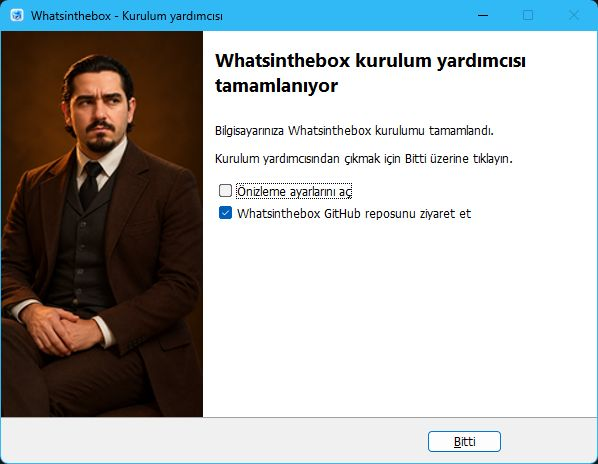
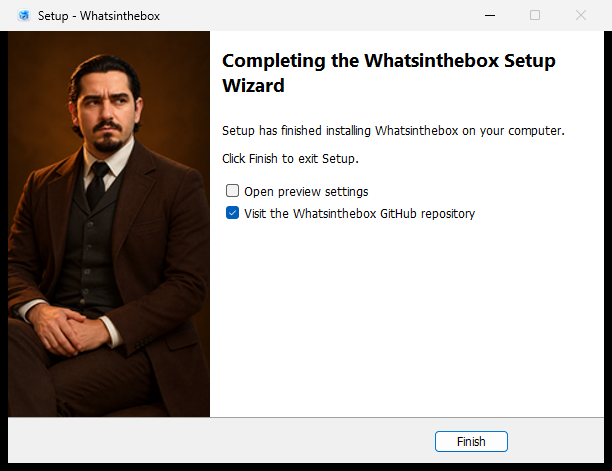
Publish version 1.0 verification, screenshots and download page

Changed region(s): [[0.0, 0.0, 1.0, 1.0], [0.1806, 0.5733, 0.2107, 0.6638], [0.1806, 0.4224, 0.2107, 0.4526]]

diff --git a/website/index.html b/website/index.html
@@ -2,6 +2,7 @@
 <html lang="en">
 <head>
  <meta charset="utf-8"><meta name="viewport" content="width=device-width,initial-scale=1">
+ <link rel="canonical" href="https://whatsinthebox-app.vercel.app/">
  <meta name="description" content="Whatsinthebox brings local file previews to Windows Explorer. Free, open source, and designed to stay out of your way.">
  <meta name="theme-color" content="#eef2f6"><meta property="og:title" content="Whatsinthebox — See inside. Stay in Explorer.">
  <meta property="og:description" content="Local previews for PDFs, artwork, images and fonts. Built for Windows.">
@@ -13,13 +14,13 @@
 <header class="navigation"><a class="brand" href="/" aria-label="Whatsinthebox home"><img src="assets/icon.png" width="40" height="40" alt="">Whatsinthebox<span class="brand-dot"></span></a><nav aria-label="Main"><a href="#formats" data-i="formats">Formats</a><a href="#release" data-i="releaseNav">Release status</a><a class="github" href="https://github.com/bakhtiyarjahangirzade/Whatsinthebox" data-i="source">Source code ↗</a><select id="language" aria-label="Language"><option value="en">EN</option><option value="ru">RU</option><option value="de">DE</option><option value="zh">中文</option><option value="tr">TR</option></select></nav></header>
 <main id="main">
  <section class="hero">
-  <div class="hero-copy"><div class="platform"><span class="windows-mark" aria-hidden="true"><i></i><i></i><i></i><i></i></span><span data-i="eyebrow">A small upgrade for Windows.</span></div><h1 data-i="title">See inside.<br>Stay in Explorer.</h1><p class="lede" data-i="description">PDFs, design files and images. A preview, right where your files live.</p><div class="actions"><a class="primary" id="download" href="https://github.com/bakhtiyarjahangirzade/Whatsinthebox" data-i="source">Source code ↗</a><a class="secondary" href="#release" data-i="releaseNav">Release status</a></div><p class="micro" data-i="free">Free. Open source. No account.</p><div class="shortcut"><kbd>Alt</kbd><span>+</span><kbd>P</kbd><span data-i="shortcut">Your preview. One shortcut.</span></div></div>
+  <div class="hero-copy"><div class="platform"><span class="windows-mark" aria-hidden="true"><i></i><i></i><i></i><i></i></span><span data-i="eyebrow">A small upgrade for Windows.</span></div><h1 data-i="title">See inside.<br>Stay in Explorer.</h1><p class="lede" data-i="description">PDFs, design files and images. A preview, right where your files live.</p><div class="actions"><a class="primary" id="download" href="https://github.com/bakhtiyarjahangirzade/Whatsinthebox/releases/download/v1.0.0/Whatsinthebox-1.0.0-Setup.exe" data-i="download">Download for Windows</a><a class="secondary" href="#release" data-i="releaseNav">Release status</a></div><p class="micro" data-i="free">Free. Open source. No account.</p><div class="shortcut"><kbd>Alt</kbd><span>+</span><kbd>P</kbd><span data-i="shortcut">Your preview. One shortcut.</span></div></div>
   <figure class="product"><div class="window-head"><span class="window-title"><span class="folder" aria-hidden="true"></span>Whatsinthebox</span><span class="window-controls" aria-hidden="true">− &nbsp; □ &nbsp; ×</span></div><div class="window-address"><span aria-hidden="true">← &nbsp; ↑</span><span>Files &nbsp; / &nbsp; Preview</span></div><div class="window-content"><div class="sample-files"><div class="sample-heading" data-i="sampleFiles">Example files</div><div class="file selected"><span class="file-icon pdf">PDF</span><span>Document.pdf<small>PDF document</small></span></div><div class="file"><span class="file-icon psd">PSD</span><span>Artwork.psd<small>Design file</small></span></div><div class="file"><span class="file-icon svg">SVG</span><span>Illustration.svg<small>Vector image</small></span></div><div class="file"><span class="file-icon font">Aa</span><span>Typeface.otf<small>Font file</small></span></div><div class="local-note"><span aria-hidden="true">◉</span><span data-i="local">On your computer.</span></div></div><div class="preview"><img src="assets/preview.png" alt="PDF preview control captured during a Windows integration test" width="650" height="760"></div></div><figcaption data-i="capture">Explorer placement illustrated. Preview image captured from a Windows integration test.</figcaption></figure>
  </section>
  <section class="benefits" aria-label="Features"><article><span class="feature-icon" aria-hidden="true">↗</span><h2 data-i="oneTitle">Open less. See more.</h2><p data-i="oneBody">Select a file. Press Alt+P. See its content without opening another app.</p></article><article><span class="feature-icon" aria-hidden="true">▧</span><h2 data-i="twoTitle">Looks like the original.</h2><p data-i="twoBody">Original proportions, transparent backgrounds and PDF page navigation.</p></article><article><span class="feature-icon" aria-hidden="true">⌁</span><h2 data-i="threeTitle">Your files stay yours.</h2><p data-i="threeBody">Files stay on your computer. No uploads, ads or subscriptions.</p></article></section>
  <section id="formats" class="formats"><div><p class="eyebrow" data-i="formatEyebrow">A closer look</p><h2 data-i="formatTitle">For the files<br>you work with.</h2><p data-i="formatNote">Support follows the file's actual contents. Saved previews are used where a full decoder is unavailable.</p></div><dl><div><dt>PDF</dt><dd data-i="pdfDescription">Real pages and page navigation. Filled form fields included.</dd></div><div><dt>PSD · PSB · CDR</dt><dd data-i="designDescription">Saved composites for Photoshop; embedded previews for compatible CorelDRAW files.</dd></div><div><dt>SVG · PNG · JPEG</dt><dd data-i="imageDescription">Vector artwork, images and transparent backgrounds, with original proportions.</dd></div><div><dt>TTF · OTF</dt><dd data-i="fontDescription">A font specimen, without installing the font.</dd></div></dl></section>
- <section id="release" class="release"><div><span class="status-label" data-i="status">1.0 release · under verification</span><h2 data-i="releaseTitle">A useful feature.<br>A careful release.</h2><p data-i="releaseBody">The next installer is being checked for upgrade, repair, removal and Explorer stability. A Windows shell issue remains under investigation. A 1.0 download will be published after those checks pass.</p><a href="https://github.com/bakhtiyarjahangirzade/Whatsinthebox/blob/main/docs/verification.md" data-i="security">Security & checks ↗</a></div><aside><span class="release-symbol" aria-hidden="true">✓</span><p data-i="releaseAside">No silent updates.<br>No accounts.<br>No file uploads.</p><span class="release-platform">Windows 10 / 11 · x64</span></aside></section>
- <section class="faq"><h2 data-i="faqTitle">Before you install.</h2><details><summary data-i="faq1">Does it upload my files?</summary><p data-i="faq1Answer">No. Preview rendering stays local. The update checker only requests public release metadata from GitHub.</p></details><details><summary data-i="faq2">Why might a PDF preview be blocked?</summary><p data-i="faq2Answer">Windows can block downloaded files before invoking a preview handler. A per-file permission action is available for PDFs you trust. Password-protected and damaged files may need separate handling.</p></details><details><summary data-i="faq3">Can I remove it cleanly?</summary><p data-i="faq3Answer">The installer includes an uninstaller and restores the preview registrations it replaced. The new release must pass clean-install, upgrade, repair and removal checks before 1.0.</p></details></section>
+ <section id="release" class="release"><div><span class="status-label" data-i="status">1.0.0 · available now</span><h2 data-i="releaseTitle">A useful feature.<br>A careful release.</h2><p data-i="releaseBody">The self-contained installer passed install, upgrade, repair, removal and native Windows preview checks in two isolated Windows environments. One download, five languages, no separate runtime installation.</p><a href="https://github.com/bakhtiyarjahangirzade/Whatsinthebox/blob/main/docs/verification.md" data-i="security">Security & checks ↗</a></div><aside><span class="release-symbol" aria-hidden="true">✓</span><p data-i="releaseAside">No silent updates.<br>No accounts.<br>No file uploads.</p><span class="release-platform">Windows 10 / 11 · x64</span></aside></section>
+ <section class="faq"><h2 data-i="faqTitle">Before you install.</h2><details><summary data-i="faq1">Does it upload my files?</summary><p data-i="faq1Answer">No. Preview rendering stays local. The update checker only requests public release metadata from GitHub.</p></details><details><summary data-i="faq2">Why might a PDF preview be blocked?</summary><p data-i="faq2Answer">Windows can block downloaded files before invoking a preview handler. A per-file permission action is available for PDFs you trust. Password-protected and damaged files may need separate handling.</p></details><details><summary data-i="faq3">Can I remove it cleanly?</summary><p data-i="faq3Answer">Yes. The uninstaller restores the preview registrations it replaced. Clean install, update, repair and removal passed the 1.0 verification.</p></details></section>
 </main>
 <footer><a class="brand" href="/">Whatsinthebox<span class="brand-dot"></span></a><span>© Bakhtiyar Jahangirzade</span><div><a href="https://github.com/bakhtiyarjahangirzade/Whatsinthebox">GitHub ↗</a><a href="https://github.com/bakhtiyarjahangirzade/Whatsinthebox/blob/main/LICENSE">MIT License ↗</a></div></footer>
 <script src="app.js" defer></script>

diff --git a/docs/verification.md b/docs/verification.md
@@ -1,31 +1,34 @@
-# Release verification
+# Release verification — 1.0.0
 
-The 1.0 release is **not approved yet**. A reported Explorer/Start-menu incident resolved after disabling the application's shell integration. The event log pointed to `SystemTray.dll`; causation remains unconfirmed. No 1.0 installer has been published.
+The published installer is the exact artifact produced and exercised by the Windows verification workflow. Application source: `6804f3daa67ae2090059b7afb7f07735309dc6e8`. Documentation and website publishing do not change that binary.
 
-| Check | Latest evidence | Status |
+| Check | Evidence | Result |
 |---|---|---|
-| Application and shell build | Release compilation | Passed |
-| Renderer, format, localization and update suite | 60 windowless checks | Passed |
-| Geometry | 17 checks and 1,000 deterministic cases | Passed |
-| Private PDF compatibility | 16 pages across nine files, plus a synthetic header-offset case | Passed locally; private inputs excluded |
-| Dependency advisories | NuGet audit with transitive dependencies | No advisories reported at the time of the check |
-| Installer compilation | Five-language maintenance wizard | Passed |
-| Helper shutdown | Missing, responsive and unresponsive helper cases | Passed in isolated process tests |
-| Real Explorer thumbnail and preview integration | Current candidate; VM verification attempt incomplete | Blocked |
-| Clean install, upgrade, repair, downgrade rejection, removal | Current candidate | Pending |
-| Start menu and taskbar stability after install/removal | Current candidate | Pending |
-| Installer signing and download verification | Release candidate | Pending |
+| Build and dependency audit | [Build checks](https://github.com/bakhtiyarjahangirzade/Whatsinthebox/actions/runs/37920737180) | Passed; no NuGet advisories reported |
+| Renderer, formats, locales and stable update selection | 60 windowless checks | Passed |
+| UI user flows | 70 combined checks: PDF navigation, failure recovery, rapid selection, consent and actual fit painting | Passed on both environments |
+| Geometry | 17 checks and 1,000 deterministic asymmetric cases | Passed |
+| Native Shell integration | Native bridge activation, file/stream COM initialization, actual Windows thumbnail cache, tiny thumbnails, PDF preview and targeted refresh | Passed |
+| Repeated use | Four native Shell passes per environment | Passed |
+| Installer lifecycle | 77 assertions: five languages, repair, missing executable recovery, disabled integration, upgrade from published 0.6, downgrade refusal and removal | Passed on both environments |
+| Setup interface | Actual completion screenshots in EN/RU/DE/ZH/TR; portrait rail and checked repository option | Passed |
+| Registration restoration | Previous handler restored; owned classes and startup entry removed | Passed |
+| Crash event monitoring | Application/Shell crash events during the installer journeys | None reported |
+| Signing | Authenticode | Not signed; SHA256 supplied with the release |
 
-The latest isolated Windows attempt returned a successful installer exit code, but did not complete the shared-UI report. A diagnostic retry also stalled while the VM logged repeated timing catch-up failures. These runs do not establish an application root cause or count as passed UI/lifecycle tests. The test machine must provide a reliable result before release approval.
+## Reproducible evidence
 
-## Required Windows scenarios
+- [Windows Server 2025 verification](https://github.com/bakhtiyarjahangirzade/Whatsinthebox/actions/runs/37920736770)
+- [Windows Server 2022 verification](https://github.com/bakhtiyarjahangirzade/Whatsinthebox/actions/runs/37920740412)
 
-Use a disposable Windows x64 machine, with snapshots before changes. Test a clean install in all five languages; old-version update; same-version repair; refusal to install over a newer version; preservation of a disabled integration; removal and restoration of previous handlers. Repeat installation without duplicate startup helpers. Exercise original-aspect thumbnails, narrow/wide preview panes, large inputs, malformed inputs, font specimens, PDF page navigation and explicit download-permission cancellation/acceptance.
+Both runs used ordinary user accounts in disposable GitHub Windows machines, synthetic files and real Windows COM/thumbnail APIs. Their `windows-lifecycle-evidence` artifacts include reports, application event results and actual UI screenshots. No private user documents or local lab files were uploaded. The downloadable installer is taken from the successful 2025 run, not rebuilt afterward.
 
-Check the Start menu, taskbar and Explorer before and after each lifecycle operation. Record application event logs, return codes and actual screenshots from the test machine. A crash, stale registration, unexpected application shutdown or incomplete rollback blocks release.
+## Scope and limits
 
-## Boundaries
+These are automated user-flow and developer checks. They are not a human usability study, an exhaustive decoder fuzz campaign or a long-running soak test. A dedicated Windows 11 interactive Start-menu/taskbar regression was not completed; the local VM was unreliable. The earlier workstation incident in `SystemTray.dll` remains an unconfirmed root cause. The 1.0 design keeps the CLR and managed preview work outside Explorer through a small native bridge.
 
-Files are rendered locally. Native decoders run in a separate process with size/time limits; this is not a complete operating-system sandbox. Downloaded PDFs may be blocked by Windows before invoking a handler. The optional per-file action requires consent before removing a download mark. No global security policy is weakened automatically.
+Windows x64 is the supported application architecture; ARM64 Explorer cannot load the x64 bridge. The installer rejects other architectures and Windows builds older than 14393. Keep the operating system supported and updated; see [Microsoft's runtime support policy](https://github.com/dotnet/core/blob/main/release-notes/10.0/supported-os.md).
 
-Passing scans are evidence about the checked build, not a guarantee of zero vulnerabilities or universal file-format compatibility.
+Files render locally. Native decoding has size/time limits and runs separately, but this is not a complete operating-system sandbox. Windows may block downloaded PDFs before invoking any preview handler. The per-file permission action defaults to No and requires explicit consent before removing that file's download mark. No global security policy is weakened.
+
+The installer does not close Explorer or restart Windows, and does not bulk-refresh thumbnail caches. A clean advisory scan and passing tests are evidence about this build, not a promise of zero vulnerabilities or universal format compatibility. The installer is unsigned; a checksum identifies the artifact and is not a publisher signature.

diff --git a/README.md b/README.md
@@ -3,14 +3,16 @@
  <a href="LICENSE"><img src="https://img.shields.io/badge/license-MIT-187dbd?style=flat-square" alt="MIT license"></a>
  <img src="https://img.shields.io/badge/platform-Windows_x64-253f56?style=flat-square" alt="Windows x64">
  <a href="https://github.com/bakhtiyarjahangirzade/Whatsinthebox/actions/workflows/checks.yml"><img src="https://github.com/bakhtiyarjahangirzade/Whatsinthebox/actions/workflows/checks.yml/badge.svg" alt="Build and checks"></a>
- <a href="docs/verification.md"><img src="https://img.shields.io/badge/1.0-release_verification-c18a39?style=flat-square" alt="1.0 release verification"></a>
+ <a href="https://github.com/bakhtiyarjahangirzade/Whatsinthebox/releases/tag/v1.0.0"><img src="https://img.shields.io/badge/release-1.0.0-187dbd?style=flat-square" alt="Release 1.0.0"></a>
 </p>
 <p align="center"><strong>Local file previews, right where your files live.</strong><br>PDFs, artwork, images and fonts. Free and open source.</p>
-<p align="center"><a href="https://whatsinthebox-alpha.vercel.app">Website</a> · <a href="#how-it-works">How it works</a> · <a href="#file-support">File support</a> · <a href="docs/verification.md">Release checks</a> · <a href="CONTRIBUTING.md">Build from source</a></p>
+<p align="center"><a href="https://whatsinthebox-app.vercel.app">Website</a> · <a href="#how-it-works">How it works</a> · <a href="#file-support">File support</a> · <a href="docs/verification.md">Release checks</a> · <a href="CONTRIBUTING.md">Build from source</a></p>
 
 ## Release status
 
-**1.0 is being verified, not released.** A Windows shell incident remains under investigation. The installer lifecycle has been revised, but real Explorer and clean-install/update/repair/removal tests must pass before a stable download is published. Older beta packages are not evidence that these checks passed. [See the release checklist →](docs/verification.md)
+**[Download Whatsinthebox 1.0.0 for Windows x64 →](https://github.com/bakhtiyarjahangirzade/Whatsinthebox/releases/download/v1.0.0/Whatsinthebox-1.0.0-Setup.exe)**
+
+One installer, five languages, no separate runtime installation and no administrator requirement. Existing installations offer update or repair; removal restores the handlers that were replaced. The installer is unsigned, so Windows may show a publisher warning. [Verification and checksums →](https://github.com/bakhtiyarjahangirzade/Whatsinthebox/releases/tag/v1.0.0)
 
 ## How it works
 
@@ -20,7 +22,7 @@ Original proportions are preserved. Fit enlarges small artwork as well as shrink
 
 <p align="center"><img src="docs/screenshots/windows-preview.png" width="360" alt="Actual PDF preview control captured by a Windows integration test"><img src="docs/screenshots/font-preview.png" width="360" alt="Actual font specimen preview"></p>
 
-These are real captures of the preview control from earlier integration tests, not proof that the current release candidate passed Explorer testing.
+The PDF capture is from the 1.0 Windows integration tests. The font image illustrates the specimen renderer.
 
 ## File support
 
@@ -52,11 +54,12 @@ Updates preserve settings. A disabled Windows integration stays deselected. The 
 
 <p align="center"><img src="docs/screenshots/setup-finish.png" width="500" alt="Classic installer completion with the author portrait"></p>
 
-The classic wizard uses the author portrait and an optional, initially checked link to this repository. Silent setup does not open a browser. The screenshot above predates the new maintenance page.
+The classic wizard uses the author portrait and an optional, initially checked link to this repository. Silent setup does not open a browser. The screenshot is from the five-language 1.0 installer verification.
 
 ## Privacy and safety
 
 - Rendering stays on your computer. No document uploads, accounts, advertising or telemetry.
+- Explorer loads a small native bridge. Managed rendering and UI run in a separate application process.
 - Update checks read public GitHub release metadata; updates are not installed automatically.
 - Windows may block downloaded PDFs before invoking the handler. A per-file permission action asks for consent before removing the selected PDF's download mark.
 - The renderer has input/time limits and runs separately. It is not a complete OS sandbox, and no scan guarantees zero vulnerabilities.

diff --git a/SECURITY.md b/SECURITY.md
@@ -2,7 +2,7 @@
 
 Report suspected vulnerabilities through GitHub private vulnerability reporting when available. Do not publish exploit details, credentials or private sample files in an issue.
 
-There is currently no approved 1.0 release. A Windows shell stability report is under investigation; release checks are tracked in [docs/verification.md](docs/verification.md).
+The 1.0 installer and native bridge passed the automated Windows checks documented in [docs/verification.md](docs/verification.md). The installer is unsigned; verify the SHA256 published with the release. A checksum identifies a file and does not replace an Authenticode signature.
 
 Native decoders handle complex, untrusted file formats. A separate process and input/time limits reduce impact, but do not provide a complete operating-system sandbox. Keep Windows and the .NET Desktop Runtime updated. A clean advisory scan does not establish that a build has no vulnerabilities.
 
